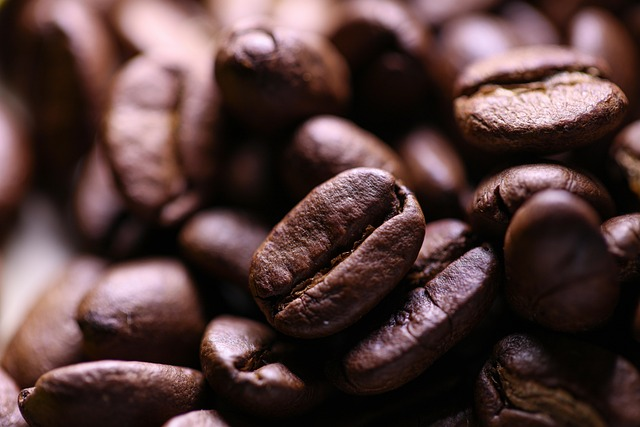
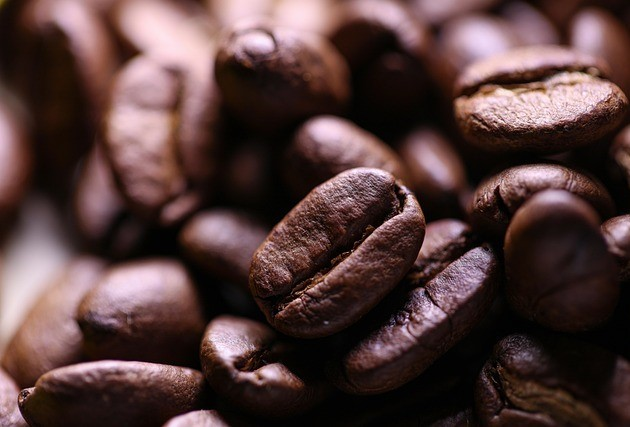
css_javitasa

diff --git a/index.html b/index.html
@@ -52,15 +52,14 @@
 </header>
 
 <main id="MainContent">
-<br><br><br>
 <!-- FŐOLDAL -->
 
-<section id="home" class="container-fluid px-4 py-5">
+<section id="home" class="container-fluid p-0">
 
     <!-- HERO -->
-    <div class="row align-items-center g-4 mb-5">
+    <div class="row align-items-center hero px-5">
 
-        <div class="col-12 col-lg-6">
+        <div class="col-12">
 
             <h1>Kandó Kávé</h1>
 
@@ -73,19 +72,14 @@
                 diákjai számára.
             </p>
 
-            <a href="#order">
-                Rendelek
-            </a>
+            <button>
+                <a href="#order">
+                    Rendelek
+                </a>
+            </button>
 
         </div>
 
-        <div class="col-12 col-lg-6 animalas">
-
-            <img src="ikt_képek/kep3.jpg"
-                 alt="Kandó Kávé"
-                 class="img-fluid w-100 hero-img" id="kep3 alma">
-
-        </div>
 
     </div>
 
@@ -220,7 +214,7 @@
         <button>Üdítő</button>
         <button>Sütemény</button>
 
-    </div
+    </div>
 
     <div class="row row-cols-1 row-cols-md-3 g-4">
 
@@ -609,6 +603,6 @@
     </p>
 
 </footer>
-  <script src="script.js"></script>
+  <!-- <script src="script.js"></script> -->
 </body>
 </html>

diff --git a/style.css b/style.css
@@ -2,6 +2,14 @@ body{
     background-color: #F3E9D6;
     color: #3E2723;
     font-family: 'Gill Sans', 'Gill Sans MT', Calibri, 'Trebuchet MS', sans-serif;
+    margin: 0;
+    padding: 0;
+    width: 100%;
+    left: 0;
+    overflow-x: hidden;
+}
+*body {
+box-sizing: border-box;
 }
 a{
     text-decoration: none;
@@ -20,21 +28,45 @@ h1{
     color: #C17A3E;
 }
 header{
-    background-color: #3E2723;
+    background-color: rgba(62, 39, 35, 0.9); 
     color: #F3E9D6;
     margin: 0;
     padding: 0 10px;
     position: fixed;
+    top: 0;
+    left: 0;
     z-index: 1000;
     width: 100%;
 }
 a{
     font-size: 1.3rem;
 }
-main{
-    padding: 0;
+
+.hero{
+    background-image: url('ikt_képek/kep1.jpg');
+    background-repeat: no-repeat;
+    background-size: cover;
+    height: 400px;
+    color: #F3E9D6;
+    background-blend-mode: color ;
 }
-#kep3{
+.hero h1{
+    color: #F3E9D6;
+}
+.hero button{
+    border: 2px solid #C17A3E;
     border-radius: 15px;
-    border: #C17A3E 4px solid;
+    padding: 4px;
 }
+.hero a{
+    color: #F3E9D6;
+}
+button{
+    border: none;
+    color: #F3E9D6;
+    background-color: #C17A3E;
+    border-radius: 15px;
+    padding: 4px 20px;
+    font-size: 1.2rem;
+}
+main{padding-top: 89px;}
